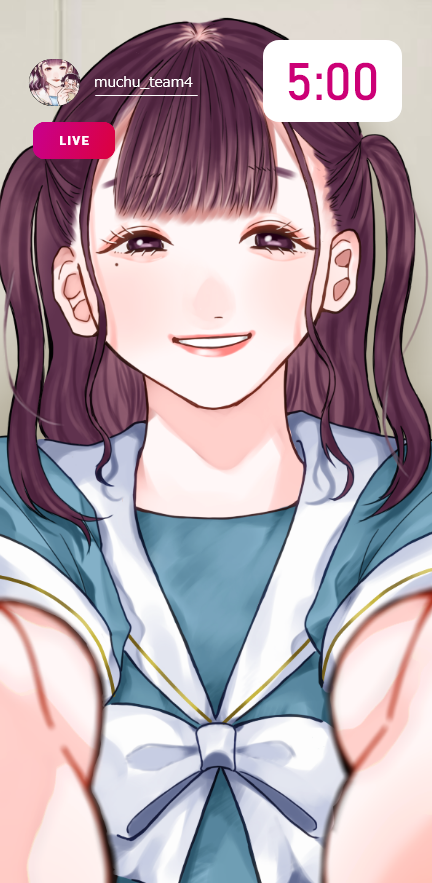
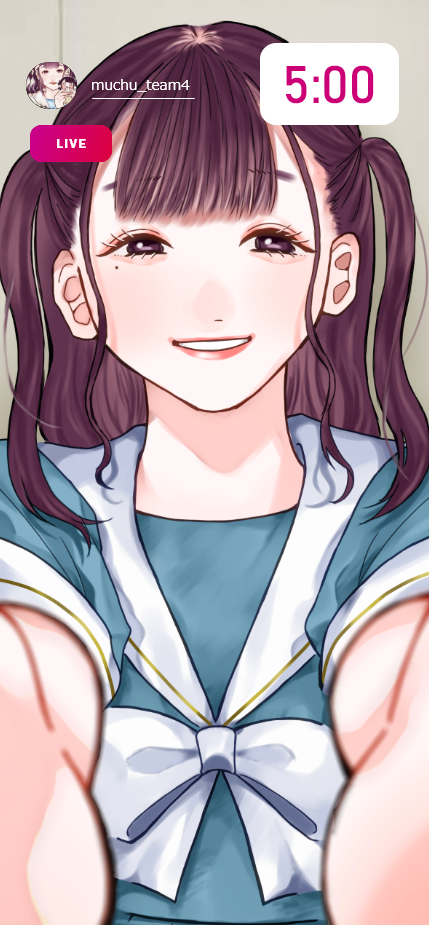
チュートリアル変更

diff --git a/tyu-torial4.css b/tyu-torial4.css
@@ -1,5 +1,5 @@
 body{
-    background-image: url('img/play.png'); 
+    background-image: url('img/tyutoriaru4.png'); 
     background-repeat: no-repeat;
     max-width: 100%;
     height: auto;
@@ -23,25 +23,22 @@ html {
   }
 }
 
+.btn{
+  border-radius: 5px;
+  background-color: rgb(252, 151, 183); 
+  padding: 10px;
+  text-decoration: none;
+  color: white;
+  font-size: 25px;
+}
 
 nav{
   position:absolute;
   text-align: center;
-  top: 570px;
-  left:20px;
-  font-size: 20px;
-  width:400px;
-  height: 200px;
+  top: 850px;
+  left:290px;
+  font-size: 18px;
+  width:160px;
+  height: 90px;
   z-index:10000;
 }
-.btn{
-    width:500px;
-    height:200px;
-    border-radius: 5px;
-    background-color: rgb(252, 151, 183); 
-    padding: 10px;
-    text-decoration: none;
-    color: white;
-    font-size: 40px;
-    text-align: center;
-  }

diff --git a/tyu-torial5.css b/tyu-torial5.css
@@ -1,5 +1,5 @@
 body{
-    background-image: url('img/play.png'); 
+    background-image: url('img/tyutoriaru5.png'); 
     background-repeat: no-repeat;
     max-width: 100%;
     height: auto;
@@ -23,25 +23,22 @@ html {
   }
 }
 
+.btn{
+  border-radius: 5px;
+  background-color: rgb(252, 151, 183); 
+  padding: 10px;
+  text-decoration: none;
+  color: white;
+  font-size: 25px;
+}
 
 nav{
   position:absolute;
   text-align: center;
-  top: 570px;
-  left:20px;
-  font-size: 20px;
-  width:400px;
-  height: 200px;
+  top: 850px;
+  left:290px;
+  font-size: 18px;
+  width:160px;
+  height: 90px;
   z-index:10000;
 }
-.btn{
-    width:500px;
-    height:200px;
-    border-radius: 5px;
-    background-color: rgb(252, 151, 183); 
-    padding: 10px;
-    text-decoration: none;
-    color: white;
-    font-size: 40px;
-    text-align: center;
-  }

diff --git a/rule.css b/rule.css
@@ -1,27 +1,11 @@
 body{
-    background-image: url('img/tyutoriaru2.png'); 
+    background-image: url('img/rule.png'); 
     background-repeat: no-repeat;
     max-width: 100%;
     height: auto;
     /* 背景画像指定 */
 }
 
-html {
-  animation-name: fadeInAnime;
-  animation-duration: 1s;
-  animation-fill-mode: forwards;
-  opacity: 0;
-}
-
-@keyframes fadeInAnime {
-  from {
-    opacity: 0;
-  }
-
-  to {
-    opacity: 1;
-  }
-}
 
 .btn{
   border-radius: 5px;
@@ -30,7 +14,9 @@ html {
   text-decoration: none;
   color: white;
   font-size: 25px;
+
 }
+
 
 nav{
   position:absolute;
@@ -42,4 +28,3 @@ nav{
   height: 90px;
   z-index:10000;
 }
-

diff --git a/quiz2.js b/quiz2.js
@@ -7,7 +7,7 @@
         }     */
 //-----------------------------------------------------------------------------
 //変数の定義---------------------------------------------------------------------
-    var count   = 120;     //カウントダウンの数字を格納する変数  3分なので180
+    var count   = 300;     //カウントダウンの数字を格納する変数  3分なので180
     var min     = 0;       //残り時間「分」を格納する変数
     var sec     = 0;       //残り時間「秒」を格納する変数
     var start_f = false; 

diff --git a/tyu-torial4.html b/tyu-torial4.html
@@ -2,7 +2,7 @@
 <html lang="ja">
 <head>
     <meta charset="UTF-8">
-    <link rel="stylesheet" href="tyu-torial3.css" type="text/css" />
+    <link rel="stylesheet" href="tyu-torial4.css" type="text/css" />
     <script type="text/javascript" src="tyu-torial.js"></script>
     <title>チュートリアル</title>
     
@@ -12,7 +12,7 @@
 
     <nav>
      
-          <a href="tyu-torial4.html" class="btn">次へ</a>  
+          <a href="tyu-torial5.html" class="btn">次へ</a>  
         
           </nav>
     

diff --git a/tyu-torial5.html b/tyu-torial5.html
@@ -2,7 +2,7 @@
 <html lang="ja">
 <head>
     <meta charset="UTF-8">
-    <link rel="stylesheet" href="tyu-torial3.css" type="text/css" />
+    <link rel="stylesheet" href="tyu-torial5.css" type="text/css" />
     <script type="text/javascript" src="tyu-torial.js"></script>
     <title>チュートリアル</title>
     
@@ -12,7 +12,7 @@
 
     <nav>
      
-          <a href="tyu-torial4.html" class="btn">次へ</a>  
+          <a href="play.html" class="btn">次へ</a>  
         
           </nav>
     

diff --git a/rule.html b/rule.html
@@ -1,0 +1,18 @@
+<!DOCTYPE html>
+<html lang="ja">
+<head>
+    <meta charset="UTF-8">
+    <link rel="stylesheet" href="rule.css" type="text/css" />
+    <title>ルール説明</title>
+    
+
+</head>
+
+<body>   
+    
+    <nav>
+        
+          <a href="tyu-torial.html" class="btn">次へ</a>  
+          
+          </nav>
+</body>

diff --git a/omedetou2.css b/omedetou2.css
@@ -6,7 +6,22 @@ body{
     /* 背景画像指定 */
 }
 
+html {
+  animation-name: fadeInAnime;
+  animation-duration: 1s;
+  animation-fill-mode: forwards;
+  opacity: 0;
+}
 
+@keyframes fadeInAnime {
+  from {
+    opacity: 0;
+  }
+
+  to {
+    opacity: 1;
+  }
+}
 .btn{
   border-radius: 5px;
   background-color: rgb(252, 151, 183); 

diff --git a/quiz2.html b/quiz2.html
@@ -9,7 +9,7 @@
 </head>
 <body>
 <!-----タイマーの3分を表示------------------------------------------>
-    <p id="default">2:00</p>
+    <p id="default">5:00</p>
 
 <!-----スタートボタンを表示----------------------------------------->
     <!-- <button id="start">クイズスタート</button> -->

diff --git a/omedetou3.css b/omedetou3.css
@@ -6,6 +6,22 @@ body{
     /* 背景画像指定 */
 }
 
+html {
+  animation-name: fadeInAnime;
+  animation-duration: 1s;
+  animation-fill-mode: forwards;
+  opacity: 0;
+}
+
+@keyframes fadeInAnime {
+  from {
+    opacity: 0;
+  }
+
+  to {
+    opacity: 1;
+  }
+}
 
 .btn{
   border-radius: 5px;

diff --git a/riyoukiyaku.html b/riyoukiyaku.html
@@ -49,7 +49,7 @@
     </h3>
     
     <nav>
-          <a href="tyu-torial.html" class="btn">同意してSTART</a> 
+          <a href="rule.html" class="btn">同意してSTART</a> 
           </nav>
   </body>
 </html>

diff --git a/tyu-torial3.css b/tyu-torial3.css
@@ -1,5 +1,5 @@
 body{
-    background-image: url('img/tyutoriaru3-2m.png'); 
+    background-image: url('img/tyutoriaru3.png'); 
     background-repeat: no-repeat;
     max-width: 100%;
     height: auto;
